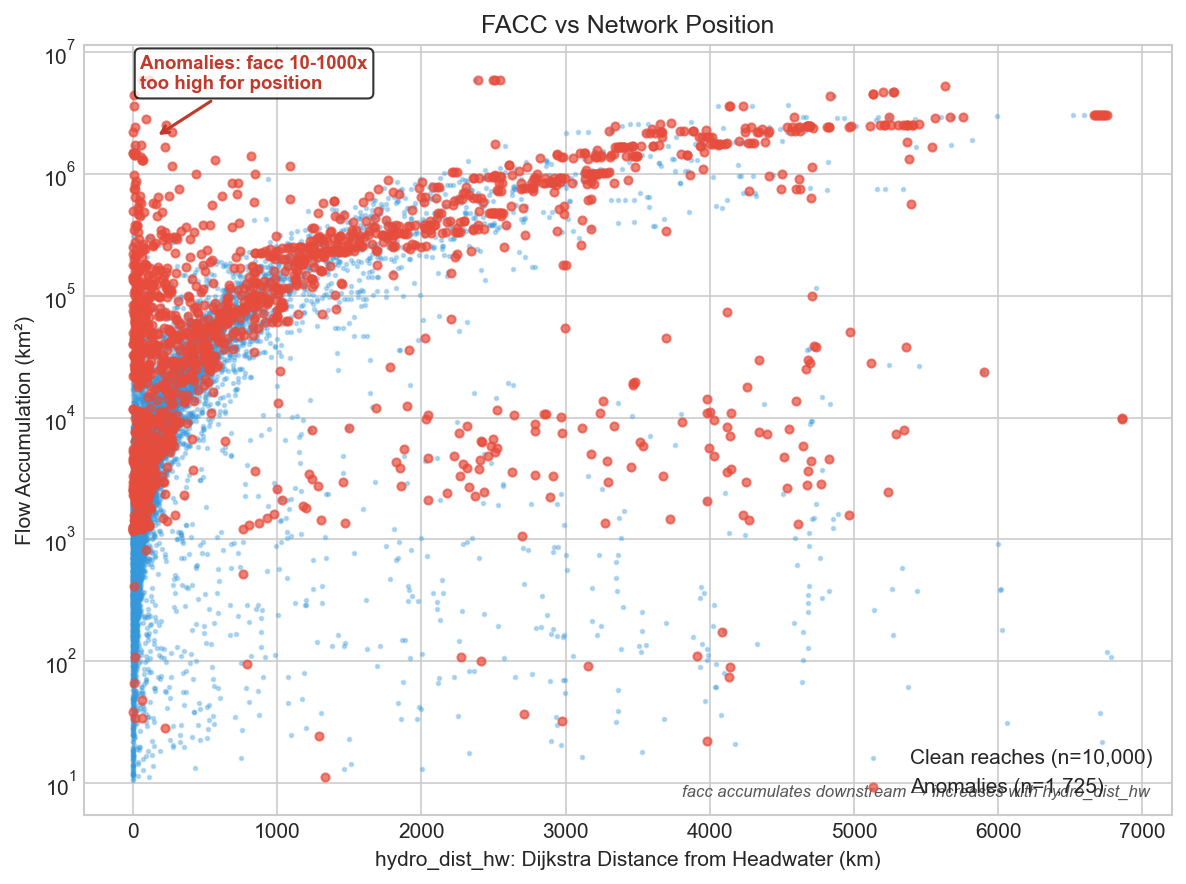
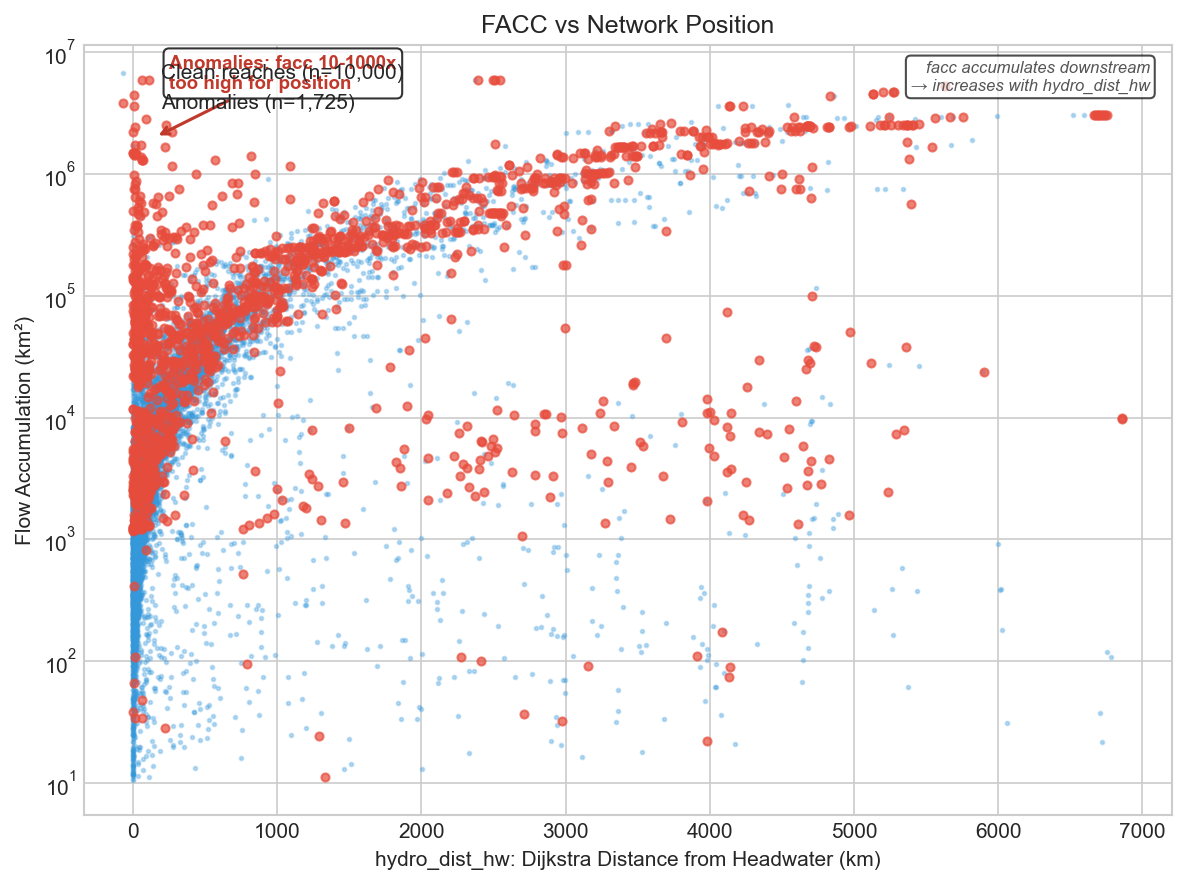
Add detection rule schematics, fix fig2 annotation overlap, shrink pie chart
- Add 5 schematic diagrams for each detection rule (fwr_drop, entry_point,
  extreme_fwr, jump_entry, facc_sum_inflation)
- Fix fig2: move legend to upper left, explanation to upper right to prevent overlap
- Reduce pie chart size from (7,6) to (5,4)
- Update facc_correction_summary.md to include schematic images

Changed region(s): [[0.5616, 0.8247, 0.9671, 0.9163], [0.0936, 0.0305, 0.3432, 0.1527], [0.7487, 0.0611, 0.9983, 0.1222]]

diff --git a/scripts/generate_facc_figures.py b/scripts/generate_facc_figures.py
@@ -79,19 +79,22 @@ def fig2_hydro_dist_vs_facc():
     ax.set_ylabel('Flow Accumulation (km²)')
     ax.set_yscale('log')
     ax.set_title('FACC vs Network Position')
-    ax.legend(loc='lower right')
+
+    # Legend in upper left to avoid overlap
+    ax.legend(loc='upper left')
 
     # Add annotation - position in upper area where anomalies cluster
     ax.annotate('Anomalies: facc 10-1000x\ntoo high for position',
-                xy=(150, 2e6), xytext=(50, 5e6),
+                xy=(150, 2e6), xytext=(250, 5e6),
                 arrowprops=dict(arrowstyle='->', color='#c0392b', lw=1.5),
                 fontsize=9, color='#c0392b', fontweight='bold',
                 bbox=dict(boxstyle='round,pad=0.3', facecolor='white', alpha=0.8))
 
-    # Add explanation of the relationship
-    ax.text(0.98, 0.02, 'facc accumulates downstream → increases with hydro_dist_hw',
-            transform=ax.transAxes, ha='right', va='bottom',
-            fontsize=8, style='italic', color='#555')
+    # Add explanation - move to top right area to avoid overlap with legend
+    ax.text(0.98, 0.98, 'facc accumulates downstream\n→ increases with hydro_dist_hw',
+            transform=ax.transAxes, ha='right', va='top',
+            fontsize=8, style='italic', color='#555',
+            bbox=dict(boxstyle='round,pad=0.3', facecolor='white', alpha=0.7))
 
     plt.tight_layout()
     plt.savefig(OUTPUT_DIR / 'fig2_hydro_dist_vs_facc.png', bbox_inches='tight')
@@ -159,7 +162,7 @@ def fig4_detection_rules():
         'Other': 100
     }
 
-    fig, ax = plt.subplots(figsize=(7, 6))
+    fig, ax = plt.subplots(figsize=(5, 4))
 
     colors = ['#3498db', '#2ecc71', '#e74c3c', '#f39c12', '#9b59b6', '#95a5a6']
     explode = (0.05, 0, 0, 0, 0, 0)
@@ -171,22 +174,10 @@ def fig4_detection_rules():
         colors=colors,
         explode=explode,
         startangle=90,
-        textprops={'fontsize': 9}
+        textprops={'fontsize': 8}
     )
 
-    ax.set_title('Detection Rules: 1,725 Anomalies', fontsize=11)
-
-    # Legend with descriptions
-    legend_labels = [
-        'fwr_drop (815): FWR drops >5x downstream',
-        'entry_point (466): facc jump + ratio_to_median >40',
-        'extreme_fwr (200): FWR > 15,000',
-        'jump_entry (99): path_freq invalid + high facc',
-        'facc_sum_inflation (45): facc > 3x upstream sum',
-        'Other (100): additional rules'
-    ]
-    ax.legend(wedges, legend_labels, loc='lower center', bbox_to_anchor=(0.5, -0.22),
-              fontsize=8)
+    ax.set_title('Detection Rules: 1,725 Anomalies', fontsize=10)
 
     plt.tight_layout()
     plt.savefig(OUTPUT_DIR / 'fig4_detection_rules.png', bbox_inches='tight')
@@ -254,6 +245,228 @@ def fig5_correction_logic():
     print(f"Saved fig5_correction_logic.png")
 
 
+def schematic_fwr_drop():
+    """Schematic: fwr_drop detection rule."""
+    fig, ax = plt.subplots(figsize=(6, 3.5))
+    ax.set_xlim(0, 10)
+    ax.set_ylim(0, 6)
+    ax.axis('off')
+
+    ax.text(5, 5.7, 'fwr_drop: FWR drops >5x at downstream boundary', fontsize=10,
+            ha='center', fontweight='bold')
+
+    # Bad reach (upstream)
+    rect1 = plt.Rectangle((1, 3), 3, 1.5, facecolor='#e74c3c', edgecolor='#c0392b', linewidth=2)
+    ax.add_patch(rect1)
+    ax.text(2.5, 4.1, 'Anomalous Reach', ha='center', fontsize=8, fontweight='bold', color='white')
+    ax.text(2.5, 3.5, 'FWR = 15,000', ha='center', fontsize=9, family='monospace', color='white')
+
+    # Arrow
+    ax.annotate('', xy=(5.5, 3.75), xytext=(4.2, 3.75),
+                arrowprops=dict(arrowstyle='->', color='#2c3e50', lw=2))
+    ax.text(4.85, 4.3, 'flow', ha='center', fontsize=7, style='italic')
+
+    # Good reach (downstream)
+    rect2 = plt.Rectangle((6, 3), 3, 1.5, facecolor='#2ecc71', edgecolor='#27ae60', linewidth=2)
+    ax.add_patch(rect2)
+    ax.text(7.5, 4.1, 'Normal Reach', ha='center', fontsize=8, fontweight='bold')
+    ax.text(7.5, 3.5, 'FWR = 50', ha='center', fontsize=9, family='monospace')
+
+    # Ratio indicator
+    ax.annotate('', xy=(2.5, 2.7), xytext=(7.5, 2.7),
+                arrowprops=dict(arrowstyle='<->', color='#8e44ad', lw=2))
+    ax.text(5, 2.2, 'Ratio: 15,000 / 50 = 300x > 5x', ha='center', fontsize=9,
+            color='#8e44ad', fontweight='bold',
+            bbox=dict(boxstyle='round,pad=0.3', facecolor='#f8f9fa', edgecolor='#8e44ad'))
+
+    # Explanation
+    ax.text(5, 0.8, 'Bad facc doesn\'t propagate everywhere. When flow\nrejoins correct MERIT path, FWR returns to normal.',
+            ha='center', fontsize=8, style='italic', color='#555')
+
+    plt.tight_layout()
+    plt.savefig(OUTPUT_DIR / 'schematic_fwr_drop.png', bbox_inches='tight', facecolor='white')
+    plt.close()
+    print("Saved schematic_fwr_drop.png")
+
+
+def schematic_entry_point():
+    """Schematic: entry_point detection rule."""
+    fig, ax = plt.subplots(figsize=(6, 4))
+    ax.set_xlim(0, 10)
+    ax.set_ylim(0, 7)
+    ax.axis('off')
+
+    ax.text(5, 6.7, 'entry_point: facc jump + ratio_to_median > 40', fontsize=10,
+            ha='center', fontweight='bold')
+
+    # Upstream reach (normal)
+    rect1 = plt.Rectangle((1, 4), 2.5, 1.2, facecolor='#2ecc71', edgecolor='#27ae60', linewidth=2)
+    ax.add_patch(rect1)
+    ax.text(2.25, 4.85, 'Upstream', ha='center', fontsize=8, fontweight='bold')
+    ax.text(2.25, 4.35, 'facc = 5,000', ha='center', fontsize=8, family='monospace')
+
+    # Arrow
+    ax.annotate('', xy=(4.5, 4.6), xytext=(3.7, 4.6),
+                arrowprops=dict(arrowstyle='->', color='#2c3e50', lw=2))
+
+    # Bad reach (facc jumped)
+    rect2 = plt.Rectangle((5, 4), 2.5, 1.2, facecolor='#e74c3c', edgecolor='#c0392b', linewidth=2)
+    ax.add_patch(rect2)
+    ax.text(6.25, 4.85, 'Anomaly', ha='center', fontsize=8, fontweight='bold', color='white')
+    ax.text(6.25, 4.35, 'facc = 500,000', ha='center', fontsize=8, family='monospace', color='white')
+
+    # Jump indicator
+    ax.annotate('', xy=(6.25, 3.8), xytext=(2.25, 3.8),
+                arrowprops=dict(arrowstyle='<->', color='#e67e22', lw=2))
+    ax.text(4.25, 3.3, 'Jump: 500K / 5K = 100x > 10x', ha='center', fontsize=8,
+            color='#e67e22', fontweight='bold')
+
+    # Width comparison box
+    rect3 = plt.Rectangle((1.5, 1.2), 7, 1.5, facecolor='#f8f9fa', edgecolor='#95a5a6',
+                           linewidth=1, linestyle='--')
+    ax.add_patch(rect3)
+    ax.text(5, 2.35, 'But width is only 80m (narrow side channel)', ha='center', fontsize=8)
+    ax.text(5, 1.75, 'ratio_to_median = FWR / regional_median = 6,250 / 50 = 125x > 40',
+            ha='center', fontsize=8, color='#c0392b', fontweight='bold')
+
+    # Key insight
+    ax.text(5, 0.5, 'facc jump alone isn\'t enough - a tributary joining mainstem\nalso jumps. The FWR ratio distinguishes real anomalies.',
+            ha='center', fontsize=7, style='italic', color='#555')
+
+    plt.tight_layout()
+    plt.savefig(OUTPUT_DIR / 'schematic_entry_point.png', bbox_inches='tight', facecolor='white')
+    plt.close()
+    print("Saved schematic_entry_point.png")
+
+
+def schematic_extreme_fwr():
+    """Schematic: extreme_fwr detection rule."""
+    fig, ax = plt.subplots(figsize=(6, 3.5))
+    ax.set_xlim(0, 10)
+    ax.set_ylim(0, 6)
+    ax.axis('off')
+
+    ax.text(5, 5.7, 'extreme_fwr: FWR > 15,000 (physically impossible)', fontsize=10,
+            ha='center', fontweight='bold')
+
+    # Side channel box
+    rect1 = plt.Rectangle((2, 2.5), 6, 2.5, facecolor='#e74c3c', edgecolor='#c0392b', linewidth=2)
+    ax.add_patch(rect1)
+    ax.text(5, 4.4, 'Narrow Side Channel', ha='center', fontsize=9, fontweight='bold', color='white')
+    ax.text(5, 3.7, 'width = 100 m', ha='center', fontsize=9, family='monospace', color='white')
+    ax.text(5, 3.1, 'facc = 2,500,000 km² (got mainstem value)', ha='center',
+            fontsize=8, family='monospace', color='white')
+
+    # FWR calculation
+    ax.text(5, 2.0, 'FWR = 2,500,000 / 100 = 25,000 > 15,000', ha='center',
+            fontsize=10, color='#c0392b', fontweight='bold',
+            bbox=dict(boxstyle='round,pad=0.3', facecolor='white', edgecolor='#c0392b'))
+
+    # Comparison
+    ax.text(5, 0.8, 'For reference: Amazon FWR ≈ 2,000\nNo natural river exceeds 15,000 km²/m',
+            ha='center', fontsize=8, style='italic', color='#555')
+
+    plt.tight_layout()
+    plt.savefig(OUTPUT_DIR / 'schematic_extreme_fwr.png', bbox_inches='tight', facecolor='white')
+    plt.close()
+    print("Saved schematic_extreme_fwr.png")
+
+
+def schematic_jump_entry():
+    """Schematic: jump_entry detection rule."""
+    fig, ax = plt.subplots(figsize=(6, 4))
+    ax.set_xlim(0, 10)
+    ax.set_ylim(0, 6.5)
+    ax.axis('off')
+
+    ax.text(5, 6.2, 'jump_entry: Disconnected reach with high facc', fontsize=10,
+            ha='center', fontweight='bold')
+
+    # Main network (connected)
+    ax.text(2.5, 5.2, 'Main Network', ha='center', fontsize=8, color='#27ae60', fontweight='bold')
+    for y in [4.5, 4.0, 3.5]:
+        rect = plt.Rectangle((1.5, y-0.15), 2, 0.3, facecolor='#2ecc71', edgecolor='#27ae60', linewidth=1)
+        ax.add_patch(rect)
+    # Arrows between connected reaches
+    for y in [4.35, 3.85]:
+        ax.annotate('', xy=(2.5, y-0.2), xytext=(2.5, y+0.15),
+                    arrowprops=dict(arrowstyle='->', color='#27ae60', lw=1))
+    ax.text(2.5, 2.9, 'path_freq = 15', ha='center', fontsize=7, family='monospace')
+
+    # Disconnected side channel
+    ax.text(7.5, 5.2, 'Disconnected', ha='center', fontsize=8, color='#e74c3c', fontweight='bold')
+    rect2 = plt.Rectangle((6.5, 4.0), 2, 0.8, facecolor='#e74c3c', edgecolor='#c0392b', linewidth=2)
+    ax.add_patch(rect2)
+    ax.text(7.5, 4.55, 'path_freq = -9999', ha='center', fontsize=7, family='monospace', color='white')
+    ax.text(7.5, 4.15, 'facc = 500,000', ha='center', fontsize=7, family='monospace', color='white')
+
+    # X mark showing disconnection
+    ax.plot([5.5, 6.3], [4.5, 4.1], 'r-', lw=2)
+    ax.plot([5.5, 6.3], [4.1, 4.5], 'r-', lw=2)
+    ax.text(5.9, 4.8, 'no link', ha='center', fontsize=7, color='#c0392b')
+
+    # Detection box
+    rect3 = plt.Rectangle((2, 1.3), 6, 1.2, facecolor='#f8f9fa', edgecolor='#8e44ad',
+                           linewidth=1)
+    ax.add_patch(rect3)
+    ax.text(5, 2.15, 'path_freq ≤ 0  AND  facc_jump > 5  AND  facc > 1000', ha='center',
+            fontsize=8, color='#8e44ad', fontweight='bold', family='monospace')
+    ax.text(5, 1.6, 'If disconnected, shouldn\'t have accumulated drainage', ha='center',
+            fontsize=8, style='italic')
+
+    plt.tight_layout()
+    plt.savefig(OUTPUT_DIR / 'schematic_jump_entry.png', bbox_inches='tight', facecolor='white')
+    plt.close()
+    print("Saved schematic_jump_entry.png")
+
+
+def schematic_facc_sum_inflation():
+    """Schematic: facc_sum_inflation detection rule."""
+    fig, ax = plt.subplots(figsize=(6, 4.5))
+    ax.set_xlim(0, 10)
+    ax.set_ylim(0, 7)
+    ax.axis('off')
+
+    ax.text(5, 6.7, 'facc_sum_inflation: facc > 3x upstream sum at confluence', fontsize=10,
+            ha='center', fontweight='bold')
+
+    # Tributary 1 (left)
+    rect1 = plt.Rectangle((1, 4.5), 2, 0.8, facecolor='#2ecc71', edgecolor='#27ae60', linewidth=2)
+    ax.add_patch(rect1)
+    ax.text(2, 5.1, 'Trib 1', ha='center', fontsize=8, fontweight='bold')
+    ax.text(2, 4.7, 'facc = 100K', ha='center', fontsize=7, family='monospace')
+
+    # Tributary 2 (right)
+    rect2 = plt.Rectangle((7, 4.5), 2, 0.8, facecolor='#2ecc71', edgecolor='#27ae60', linewidth=2)
+    ax.add_patch(rect2)
+    ax.text(8, 5.1, 'Trib 2', ha='center', fontsize=8, fontweight='bold')
+    ax.text(8, 4.7, 'facc = 50K', ha='center', fontsize=7, family='monospace')
+
+    # Arrows to confluence
+    ax.annotate('', xy=(4.5, 3.5), xytext=(2.5, 4.4),
+                arrowprops=dict(arrowstyle='->', color='#2c3e50', lw=2))
+    ax.annotate('', xy=(5.5, 3.5), xytext=(7.5, 4.4),
+                arrowprops=dict(arrowstyle='->', color='#2c3e50', lw=2))
+
+    # Confluence reach (bad)
+    rect3 = plt.Rectangle((3.5, 2.5), 3, 1, facecolor='#e74c3c', edgecolor='#c0392b', linewidth=2)
+    ax.add_patch(rect3)
+    ax.text(5, 3.25, 'Confluence Reach', ha='center', fontsize=8, fontweight='bold', color='white')
+    ax.text(5, 2.75, 'facc = 500K', ha='center', fontsize=8, family='monospace', color='white')
+
+    # Sum comparison
+    ax.text(5, 1.8, 'Expected: 100K + 50K = 150K', ha='center', fontsize=9, color='#27ae60')
+    ax.text(5, 1.3, 'Actual: 500K', ha='center', fontsize=9, color='#c0392b', fontweight='bold')
+    ax.text(5, 0.7, 'Ratio: 500K / 150K = 3.3x > 3x', ha='center', fontsize=9,
+            color='#8e44ad', fontweight='bold',
+            bbox=dict(boxstyle='round,pad=0.3', facecolor='#f8f9fa', edgecolor='#8e44ad'))
+
+    plt.tight_layout()
+    plt.savefig(OUTPUT_DIR / 'schematic_facc_sum_inflation.png', bbox_inches='tight', facecolor='white')
+    plt.close()
+    print("Saved schematic_facc_sum_inflation.png")
+
+
 def main():
     print("Generating FACC correction figures...")
     print("=" * 50)
@@ -263,6 +476,14 @@ def main():
     fig3_fwr_before_after()
     fig4_detection_rules()
     fig5_correction_logic()
+
+    # Detection rule schematics
+    print("\nGenerating detection rule schematics...")
+    schematic_fwr_drop()
+    schematic_entry_point()
+    schematic_extreme_fwr()
+    schematic_jump_entry()
+    schematic_facc_sum_inflation()
 
     print("=" * 50)
     print(f"All figures saved to {OUTPUT_DIR}/")

diff --git a/docs/facc_correction_summary.md b/docs/facc_correction_summary.md
@@ -61,6 +61,8 @@ At confluences, a reach's facc should roughly equal the sum of its upstream trib
 
 **1. fwr_drop (815 detections)**
 
+![fwr_drop schematic](../output/facc_detection/figures/schematic_fwr_drop.png)
+
 *Logic:* If a reach has bad facc but its downstream neighbor has correct facc, the FWR will drop dramatically at that boundary.
 
 ```
@@ -72,6 +74,8 @@ FWR_current / FWR_downstream > 5
 ---
 
 **2. entry_point (466 detections)**
+
+![entry_point schematic](../output/facc_detection/figures/schematic_entry_point.png)
 
 *Logic:* Bad facc "enters" a reach when facc suddenly jumps AND the resulting FWR is way above regional norms.
 
@@ -94,6 +98,8 @@ The **ratio_to_median** filter is key: when a mainstem receives tributary flow, 
 
 **3. extreme_fwr (200 detections)**
 
+![extreme_fwr schematic](../output/facc_detection/figures/schematic_extreme_fwr.png)
+
 *Logic:* Some FWR values are simply impossible - no river has 15,000+ km² drainage per meter of width.
 
 ```
@@ -105,6 +111,8 @@ FWR > 15,000
 ---
 
 **4. jump_entry (99 detections)**
+
+![jump_entry schematic](../output/facc_detection/figures/schematic_jump_entry.png)
 
 *Logic:* Disconnected side channels (path_freq = -9999) that somehow have high facc.
 
@@ -119,6 +127,8 @@ AND facc > 1000
 ---
 
 **5. facc_sum_inflation (45 detections)**
+
+![facc_sum_inflation schematic](../output/facc_detection/figures/schematic_facc_sum_inflation.png)
 
 *Logic:* At confluences, facc should equal the sum of upstream tributaries. Large inflation indicates D8 error.
 
